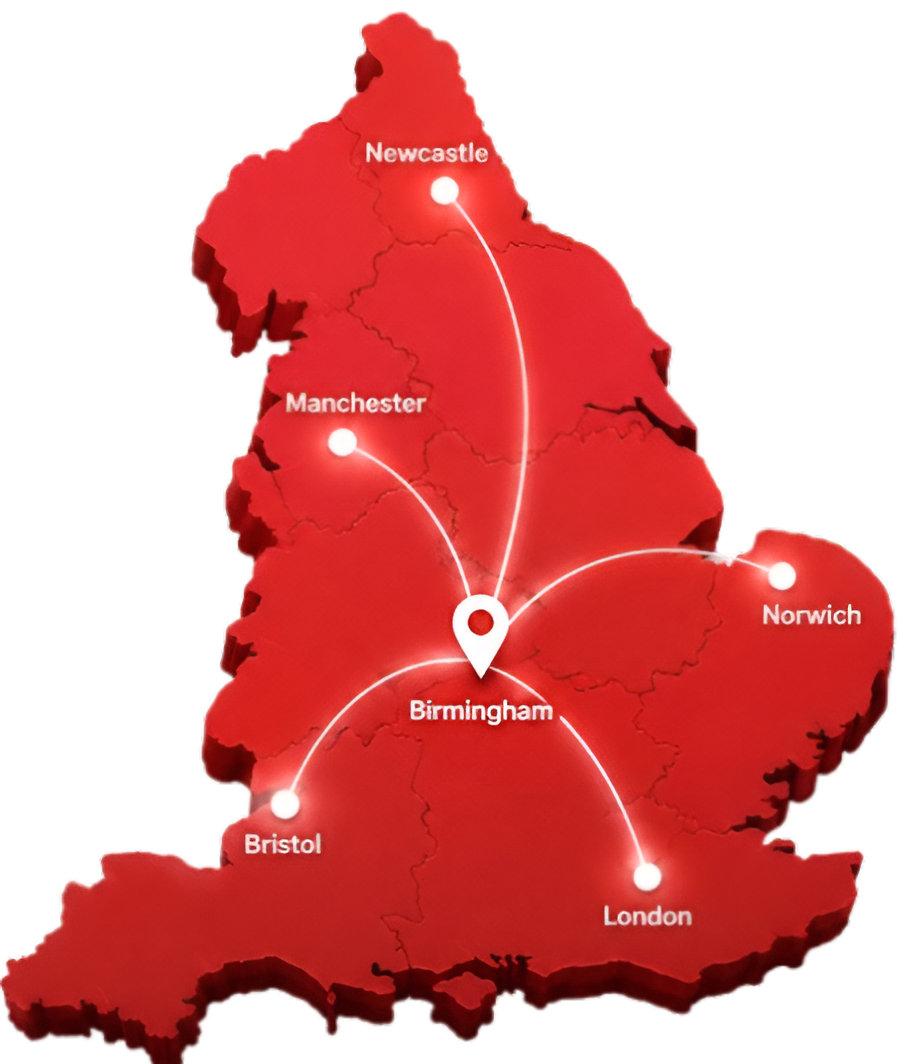
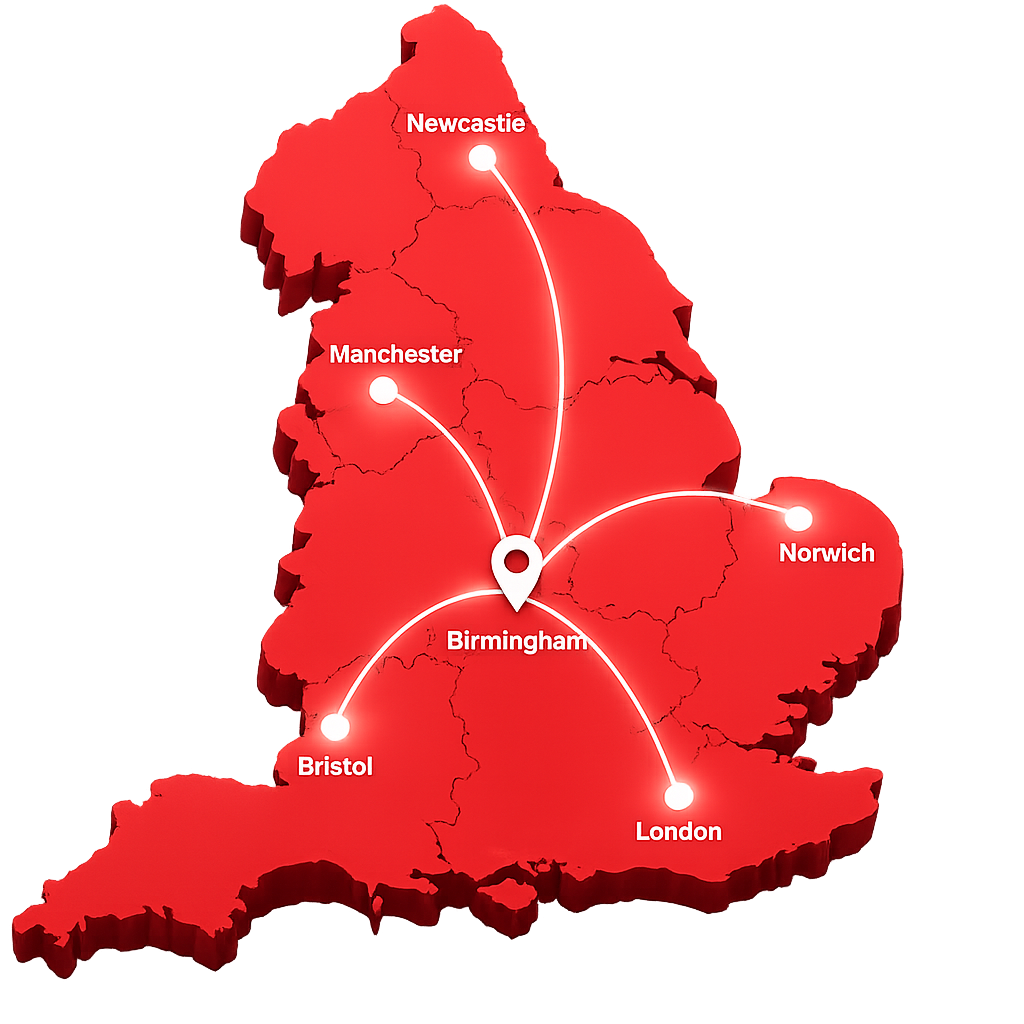
Change coverage section

diff --git a/js/script.js b/js/script.js
@@ -65,10 +65,23 @@ document.addEventListener('DOMContentLoaded', () => {
             }
         });
     }, { threshold: 0.08, rootMargin: '0px 0px -50px 0px' });
+function initReveal() {
+    document.querySelectorAll('.reveal, .reveal-left, .reveal-right')
+        .forEach(el => revealObserver.observe(el));
+}
 
-    document.querySelectorAll('.reveal, .reveal-left, .reveal-right').forEach(el => {
-        revealObserver.observe(el);
+initReveal();
+const mapObserver = new IntersectionObserver((entries) => {
+    entries.forEach(entry => {
+        if (entry.isIntersecting) {
+            entry.target.classList.add("visible");
+            mapObserver.unobserve(entry.target);
+        }
     });
+}, { threshold: 0.3 });
+
+const map = document.querySelector(".coverage-map-card");
+if (map) mapObserver.observe(map);
 
     /* ── COUNTER ANIMATION ── */
     function animateCounter(el, target, suffix) {
@@ -212,45 +225,6 @@ function showToast(message, type = 'success') {
     }, 3500);
 }
 
-/* page faq*/
-const items = document.querySelectorAll(".faq-item");
-
-items.forEach(item => {
-  const question = item.querySelector(".faq-question");
-  if (!question) return;
-
-  question.onclick = () => {
-    items.forEach(i => {
-      if(i !== item){
-        i.classList.remove("active");
-        const span = i.querySelector("span");
-        if (span) span.textContent = "+";
-      }
-    });
-
-    item.classList.toggle("active");
-
-    const icon = item.querySelector("span");
-    if (icon) {
-      icon.textContent = item.classList.contains("active") ? "−" : "+";
-    }
-  };
-});
-
-//terms
-document.querySelectorAll(".faq-question").forEach(btn => {
-  btn.addEventListener("click", () => {
-    const item = btn.parentElement;
-
-    // close others
-    document.querySelectorAll(".faq-item").forEach(i => {
-      if (i !== item) i.classList.remove("active");
-    });
-
-    item.classList.toggle("active");
-  });
-});
-
 // cookie
 document.addEventListener("DOMContentLoaded", () => {
 
@@ -324,69 +298,3 @@ window.addEventListener("load", () => {
   }
 });
 
-//log
-const form = document.getElementById("loginForm");
-
-form.addEventListener("submit", (e) => {
-  e.preventDefault();
-
-  const email = document.getElementById("email").value.trim();
-  const password = document.getElementById("password").value.trim();
-
-  const user = {
-    email: "driver@proovia.co.uk",
-    password: "123456"
-  };
-
-  if (email === user.email && password === user.password) {
-
-    localStorage.setItem("loggedIn", "true");
-
-    showToast("Login successful 🚚", "success");
-
-    setTimeout(() => {
-      window.location.href = "dashboard.html";
-    }, 1000);
-
-  } else {
-    showToast("Invalid credentials ❌", "error");
-  }
-});
-
-function showToast(message, type) {
-  const toast = document.createElement("div");
-  toast.className = "toast";
-  toast.textContent = message;
-
-  toast.style.position = "fixed";
-  toast.style.bottom = "20px";
-  toast.style.left = "50%";
-  toast.style.transform = "translateX(-50%)";
-  toast.style.background = type === "success" ? "#22c55e" : "#ef4444";
-  toast.style.color = "white";
-  toast.style.padding = "12px 20px";
-  toast.style.borderRadius = "8px";
-
-  document.body.appendChild(toast);
-
-  setTimeout(() => toast.remove(), 2500);
-}
- window.addEventListener("scroll", () => {
-
-        const footerTop = footer.getBoundingClientRect().top;
-        const screenHeight = window.innerHeight;
-
-        if (footerTop < screenHeight - 100) {
-
-            cta.style.opacity = "0";
-            cta.style.pointerEvents = "none";
-            cta.style.transform = "translateY(20px)";
-
-        } else {
-
-            cta.style.opacity = "1";
-            cta.style.pointerEvents = "auto";
-            cta.style.transform = "translateY(0)";
-        }
-
-    });

diff --git a/style/style.css b/style/style.css
@@ -868,21 +868,34 @@ section {
     display: flex;
     justify-content: center;
     align-items: center;
+    right: -120px;
 }
 
 .coverage-map-card {
     position: relative;
 
     width: 100%;
-    max-width: 620px;
-
-    padding: 30px;
-
+    max-width: 690px;
+    padding: 20px;
     border-radius: 38px;
-
+        opacity: 0;
+    transform: translateX(60px) scale(0.95);
+    transition: all 0.9s ease;
+    will-change: transform, opacity;
 
 }
+.coverage-map-hover {
+    display: inline-block;
+}
 
+.coverage-map-hover:hover .coverage-map-card {
+    transform: translateY(-10px);
+    transition: transform 0.35s ease;
+}
+.coverage-map-card.visible {
+    opacity: 1;
+    transform: translateX(0) scale(1);
+}
 .coverage-map-card img {
     width: 100%;
     display: block;

diff --git a/index.html b/index.html
@@ -234,8 +234,7 @@
     </section>
 
     <!-- COVERAGE -->
-  <section class="coverage" id="coverage">
-
+<section class="coverage reveal" id="coverage">
     <div class="coverage-glow coverage-glow-1"></div>
     <div class="coverage-glow coverage-glow-2"></div>
 
@@ -289,12 +288,11 @@
         <!-- RIGHT -->
         <div class="coverage-map-wrap">
 
-            <div class="coverage-map-card">
-                <img src="photo/map.png" alt="England Coverage Map">
-            </div>
-
-        </div>
-
+           <div class="coverage-map-hover">
+    <div class="coverage-map-card">
+        <img src="photo/map.png" alt="England Coverage Map">
+    </div>
+</div>
     </div>
 
 </section>

diff --git a/style/theme.css b/style/theme.css
@@ -55,7 +55,7 @@ html[data-theme="dark"] {
 
     --coverage-card-border: rgba(255, 255, 255, 0.08);
 
-    --coverage-map-shadow: rgba(0, 0, 0, 0.45);
+    --coverage-map-shadow: rgba(240, 8, 8, 0.363);
 }
 
 /* ── LIGHT THEME ── */
